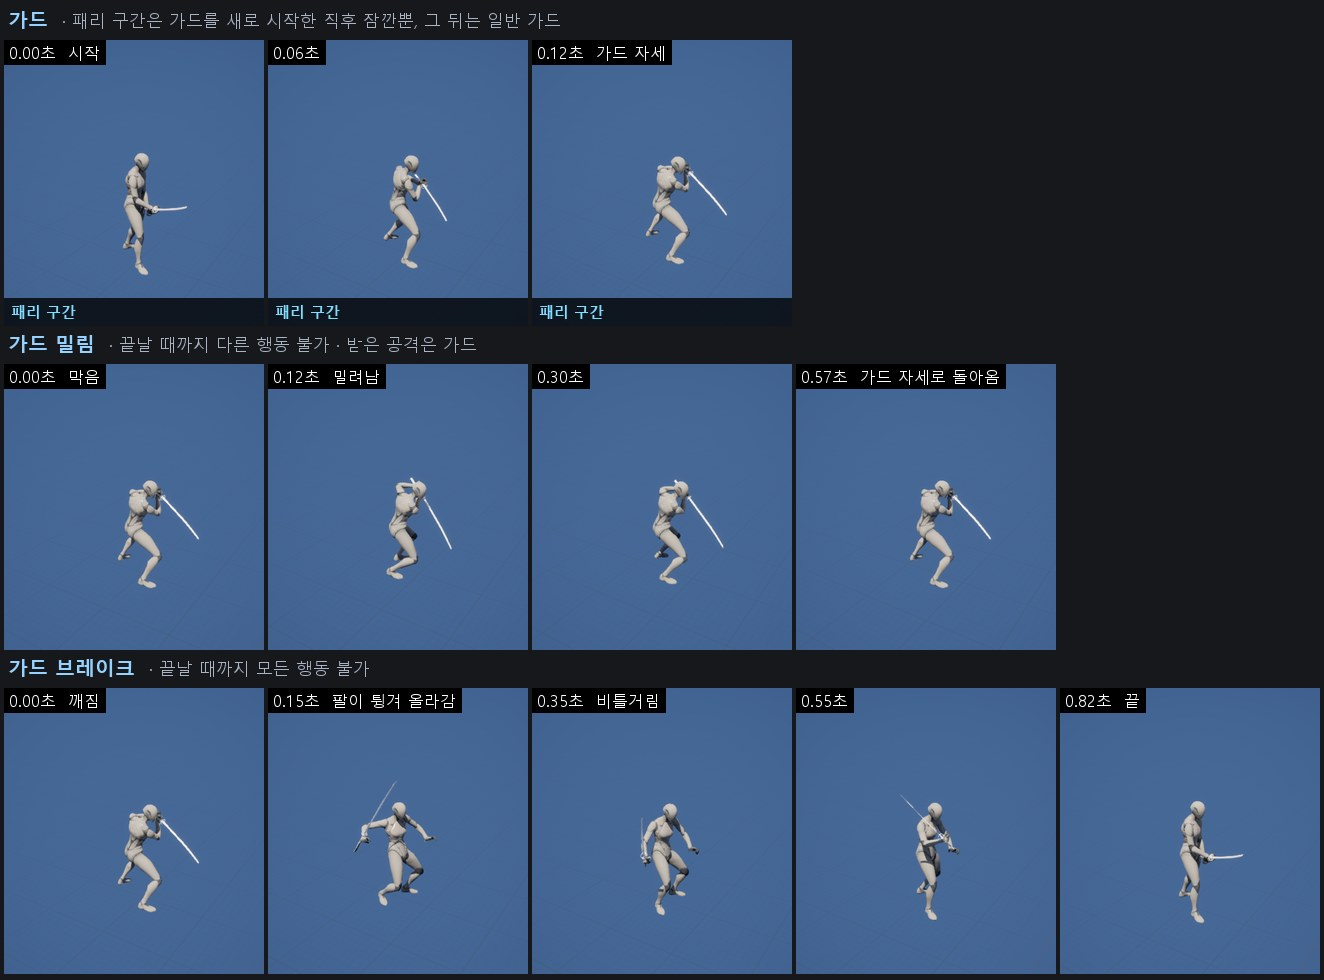
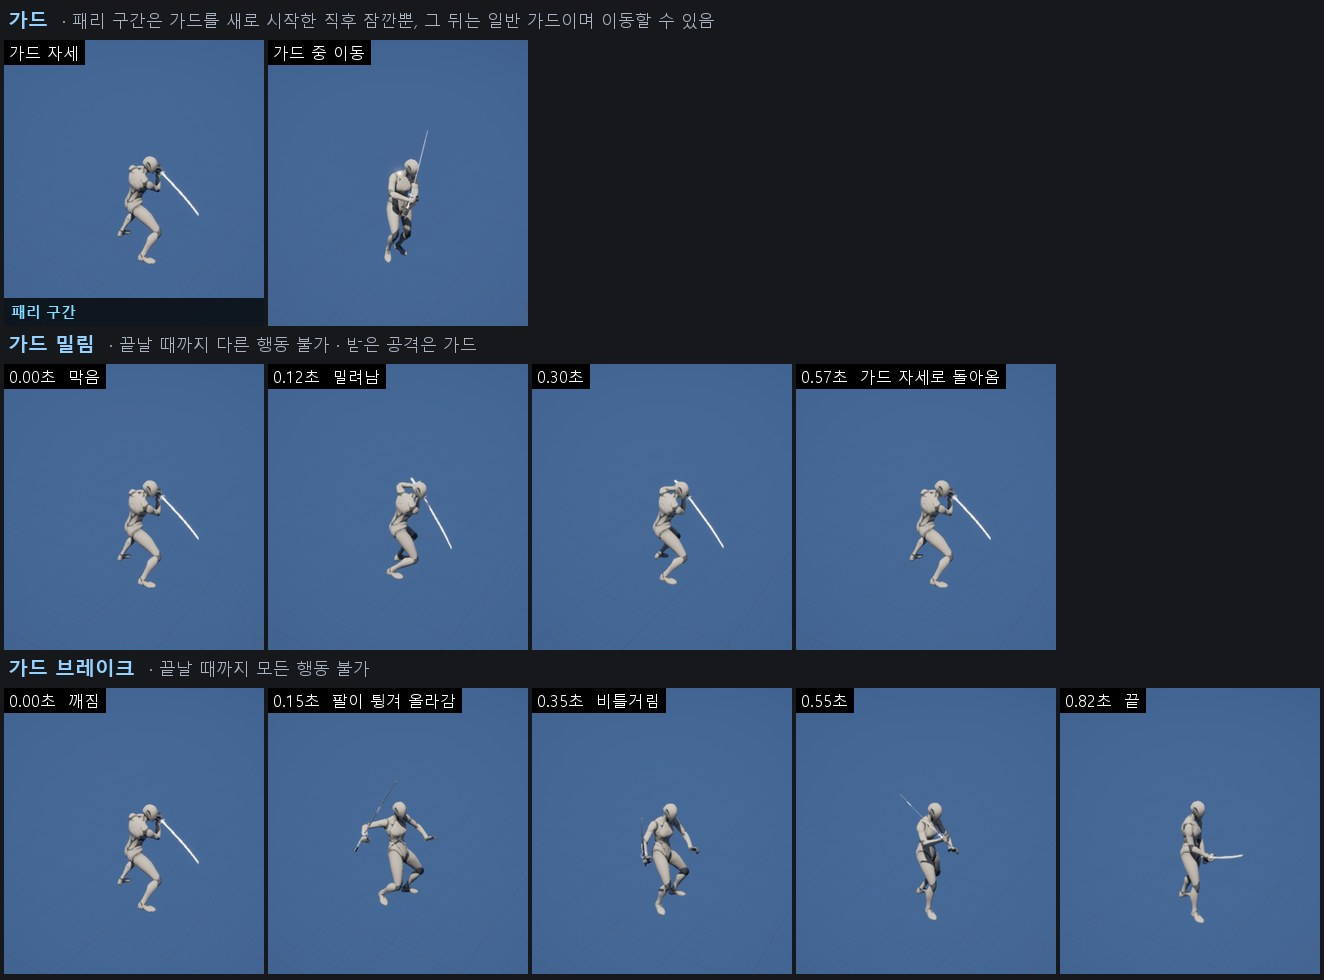
기획서 최신화: 가드 모션, 용어집 영문 표기, 핵심 재미, 기간 (플레이어 사양 '가드', 용어집, 게임 개요 '핵심 재미', 마일스톤1 계획 '기간')
- 플레이어 사양 '가드': 재생하지 않는 Guard_Start를 빼고 가드 중 이동(Guard_Walk 8방향)을 넣음. 가드 모션 그림도 다시 만듦
- 용어집: 영문 표기를 구현 이름에 맞춤 (판정 구간 Attack Window, 다운 Down, 붉은 섬광 Unblockable Flash, 예고 섬광 Parry Flash)
- 게임 개요 '핵심 재미': 관련 시스템에 선입력, 예고 섬광 추가
- 마일스톤1 계획 '기간': 실제 진행 날짜로 고침

diff --git a/Docs/용어집.md b/Docs/용어집.md
@@ -27,7 +27,7 @@
 | 가드 경감 배율 | GuardReduction | 가드로 막았을 때 HP 감소량에 곱하는 경감 배율 |
 | 타 | Hit | 공격 판정 하나를 세는 단위 (1타, 2타) |
 | 공격 판정 | Attack Check | 공격이 대상에게 닿았는지 검사하는 단위 하나 |
-| 선딜 / 판정 구간 / 후딜 | Startup / Active / Recovery | 공격의 준비를 선딜, 공격 판정이 활성화된 구간을 판정 구간, 타격을 마친 뒤의 회복을 후딜이라 합니다. |
+| 선딜 / 판정 구간 / 후딜 | Startup / Attack Window / Recovery | 공격의 준비를 선딜, 공격 판정이 활성화된 구간을 판정 구간, 타격을 마친 뒤의 회복을 후딜이라 합니다. |
 | 리젠 대기 시간 | Regen Delay | 자원이 줄어든 뒤 자동 회복이 시작되기까지의 시간 |
 | 무적 | Invincible | 공격에 맞아도 대미지와 피격 반응을 받지 않는 상태 |
 | 가드 | Guard | 공격을 막아 대미지를 경감하는 행동 |
@@ -36,7 +36,7 @@
 | 움찔 | Flinch | 하던 행동을 끊지 않고 모션만 덧입혀 재생하는 피격 반응 |
 | 넉업 | KnockUp | 공중으로 떠올랐다가 떨어지는 피격 반응 |
 | 넉백 | KnockBack | 뒤로 크게 밀려나는 피격 반응 |
-| 다운 | KnockDown | 쓰러졌다가 일어나는 피격 반응 |
+| 다운 | Down | 쓰러졌다가 일어나는 피격 반응 |
 | 가드 반응 | Guard React | 가드로 공격을 막았을 때의 반응. 가드 움찔과 가드 밀림이 있습니다. |
 | 가드 움찔 | Guard Flinch | 피격 반응이 움찔인 공격을 막았을 때의 반응 |
 | 가드 밀림 | Guard Pushback | 공격을 가드로 막았을 때 뒤로 밀려나는 반응 |
@@ -91,8 +91,8 @@
 | 거리 구간 | Range Band | 패턴을 고르는 기준이 되는 거리 구분. 근거리, 중거리, 원거리 |
 | 패턴 후딜레이 | Pattern Recovery | 패턴, 그로기, 페이즈 전환 등이 끝난 뒤 다음 패턴을 고르기 전까지 기다리는 시간 |
 | 패턴 전조 동작 | Wind-up | 공격 타이밍을 읽을 수 있도록 패턴의 선딜 동안 보여 주는 큰 준비 동작 |
-| 붉은 섬광 | Unblockable Telegraph | 가드 불가 공격 직전에 무기에 표시하는 예고 이펙트 |
-| 예고 섬광 | Parry Telegraph | 패리 가능한 보스 공격 직전에 무기에 표시하는 예고 이펙트. 붉은 섬광과 색으로 구분합니다. |
+| 붉은 섬광 | Unblockable Flash | 가드 불가 공격 직전에 무기에 표시하는 예고 이펙트 |
+| 예고 섬광 | Parry Flash | 패리 가능한 보스 공격 직전에 무기에 표시하는 예고 이펙트. 붉은 섬광과 색으로 구분합니다. |
 | 처형 피격 | Executed | 보스가 처형당하고 있는 상태 |
 
 - 보스의 행동은 '패턴'으로 씁니다. '스킬'은 플레이어의 스킬에만 씁니다.

diff --git a/Docs/Design/마일스톤1 계획.md b/Docs/Design/마일스톤1 계획.md
@@ -4,11 +4,11 @@
 
 ## 기간
 
-| 단계 | 예상 시작일 | 예상 종료일 | 작업 내용 |
+| 단계 | 시작일 | 종료일 | 작업 내용 |
 | - | - | - | - |
-| 기획 | 2026.10.08 | 2026.10.11 | 마일스톤에 필요한 모든 기획서를 적확하게 작성 |
-| 구현 | 2026.10.12 | 2026.10.23 | AI에게 기획서 전달하여 설계 문서화. 이후 AI에게 구현 위임 |
-| QA | 2026.10.24 | 2026.10.26 | 의도한 대로 구현되었는지 플레이 테스트하고, 마지막 날 '목표'의 질문에 답합니다. |
+| 기획 | 2026.10.08 | 2026.10.10 | 마일스톤에 필요한 모든 기획서를 적확하게 작성 |
+| 구현 | 2026.10.10 | 2026.10.10 | AI에게 기획서 전달하여 설계 문서화. 이후 AI에게 구현 위임 |
+| QA | 2026.10.10 | 2026.10.26 | 의도한 대로 구현되었는지 플레이 테스트하고, 마지막 날 '목표'의 질문에 답합니다. |
 
 ## 목표
 

diff --git a/Docs/Design/게임 개요.md b/Docs/Design/게임 개요.md
@@ -21,9 +21,9 @@
 
 | 재미 | 무엇에서 오나 | 관련 시스템 |
 | - | - | - |
-| 액션성 | 원하는 대로 캐릭터를 컨트롤하며 전투 | 평타, 회피, 가드, 패리, 극한 회피, 회피 반격, 스킬, 궁극기, 처형, 모션 캔슬, 공격 보정 |
+| 액션성 | 원하는 대로 캐릭터를 컨트롤하며 전투 | 평타, 회피, 가드, 패리, 극한 회피, 회피 반격, 스킬, 궁극기, 처형, 선입력, 모션 캔슬, 공격 보정 |
 | 타격감 | 공격의 손맛과 타격 연출 | 히트스톱, 카메라 셰이크, 슬로우모션, 피격 반응, 피격 이펙트 |
-| 성취감 | 쌓여 가는 실력 | 패턴 전조 동작, 붉은 섬광, 패턴 |
+| 성취감 | 쌓여 가는 실력 | 패턴 전조 동작, 예고 섬광, 붉은 섬광, 패턴 |
 
 ## 타겟 플랫폼
 

diff --git a/Docs/Design/플레이어 사양.md b/Docs/Design/플레이어 사양.md
@@ -269,7 +269,7 @@
 
 ![가드, 가드 밀림, 가드 브레이크 모션](<Attachments/플레이어 모션 가드.jpg>)
 
-모션: 가드 `ARPG_Samurai_Anim_UE_Guard_Start` → `ARPG_Samurai_Anim_UE_Guard` (반복), 가드 밀림 `ARPG_Samurai_Anim_UE_Guard_Hit2`, 가드 브레이크 `ARPG_Samurai_Anim_UE_Guard_Break`
+모션: 가드 `ARPG_Samurai_Anim_UE_Guard` (반복), 가드 중 이동 `ARPG_Samurai_Anim_UE_Guard_Walk_*` (8방향), 가드 밀림 `ARPG_Samurai_Anim_UE_Guard_Hit2`, 가드 브레이크 `ARPG_Samurai_Anim_UE_Guard_Break`
 
 #### 가드 브레이크
 
